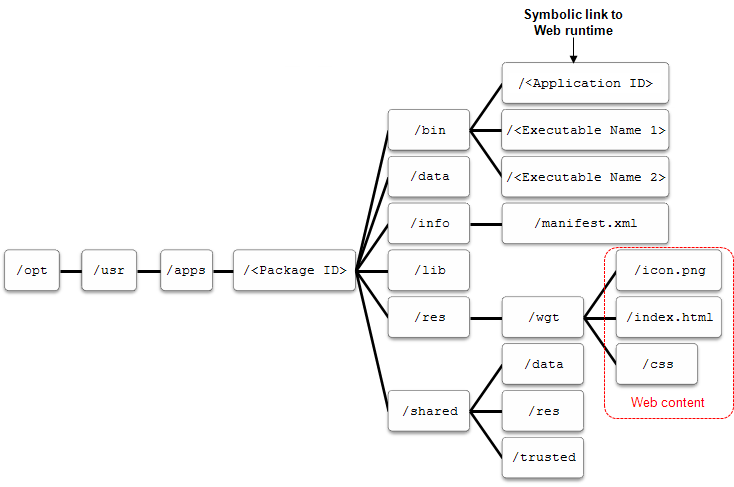
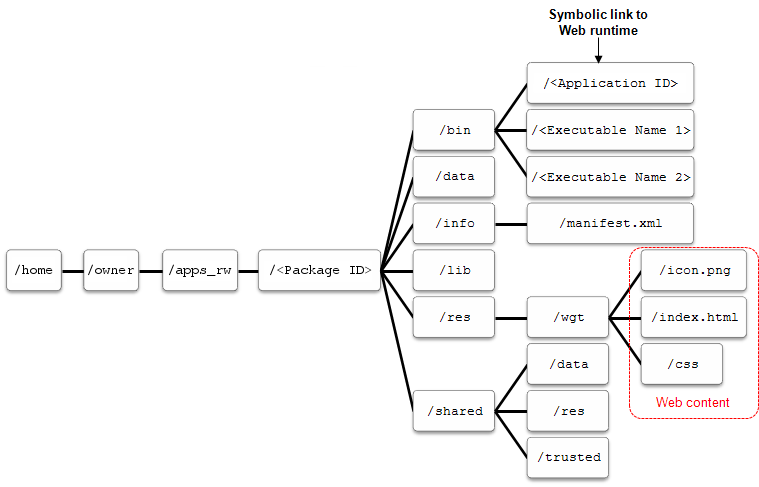
Changed application root path in web application model documentation
Changed opt/usr/apps to home/owner/apps_rw

Changed region(s): [[0.0899, 0.1232, 0.9891, 0.9856], [0.7193, 0.0, 0.8692, 0.1232], [0.0, 0.5236, 0.0599, 0.5852]]

diff --git a/org.tizen.gettingstarted/html/web/app_model/application_model_w.htm b/org.tizen.gettingstarted/html/web/app_model/application_model_w.htm
@@ -143,7 +143,7 @@
     </tr> 
     <tr> 
      <td><span style="font-family: Courier New,Courier,monospace">App</span></td> 
-     <td><span style="font-family: Courier New,Courier,monospace">opt/usr/apps/&lt;Package ID&gt;</span><p>(For example: <span style="font-family: Courier New,Courier,monospace">opt/usr/apps/qik37po9ck</span>)</p></td> 
+     <td><span style="font-family: Courier New,Courier,monospace">home/owner/apps_rw/&lt;Package ID&gt;</span><p>(For example: <span style="font-family: Courier New,Courier,monospace">home/owner/apps_rw/qik37po9ck</span>)</p></td>
      <td><span style="font-family: Courier New,Courier,monospace">&lt;Package ID&gt;.&lt;Name&gt;</span><p>(For example: <span style="font-family: Courier New,Courier,monospace">qik37po9ck.Sample</span>)</p></td> 
      <td><span style="font-family: Courier New,Courier,monospace">opt/share/packages/&lt;Package ID&gt;.xml</span><p>(For example: <span style="font-family: Courier New,Courier,monospace">opt/share/packages/qik37po9ck.xml</span>)</p></td> 
     </tr> 
@@ -238,7 +238,7 @@
     </tr> 
     <tr> 
      <td><span style="font-family: Courier New,Courier,monospace">App1</span> <p>(Web)</p></td> 
-     <td rowspan="3"><span style="font-family: Courier New,Courier,monospace">opt/usr/apps/&lt;Package ID&gt;</span><p>(For example: <span style="font-family: Courier New,Courier,monospace">opt/usr/apps/qik37po9ck</span>)</p></td> 
+     <td rowspan="3"><span style="font-family: Courier New,Courier,monospace">home/owner/apps_rw/&lt;Package ID&gt;</span><p>(For example: <span style="font-family: Courier New,Courier,monospace">home/owner/apps_rw/qik37po9ck</span>)</p></td>
      <td><span style="font-family: Courier New,Courier,monospace">&lt;Package ID&gt;.&lt;Name&gt;</span><p>(For example: <span style="font-family: Courier New,Courier,monospace">qik37po9ck.Sample</span>)</p></td> 
      <td rowspan="3"><span style="font-family: Courier New,Courier,monospace">opt/share/packages/&lt;Package ID&gt;.xml</span><p>(For example: <span style="font-family: Courier New,Courier,monospace">opt/share/packages/qik37po9ck.xml</span>)</p></td> 
     </tr> 
